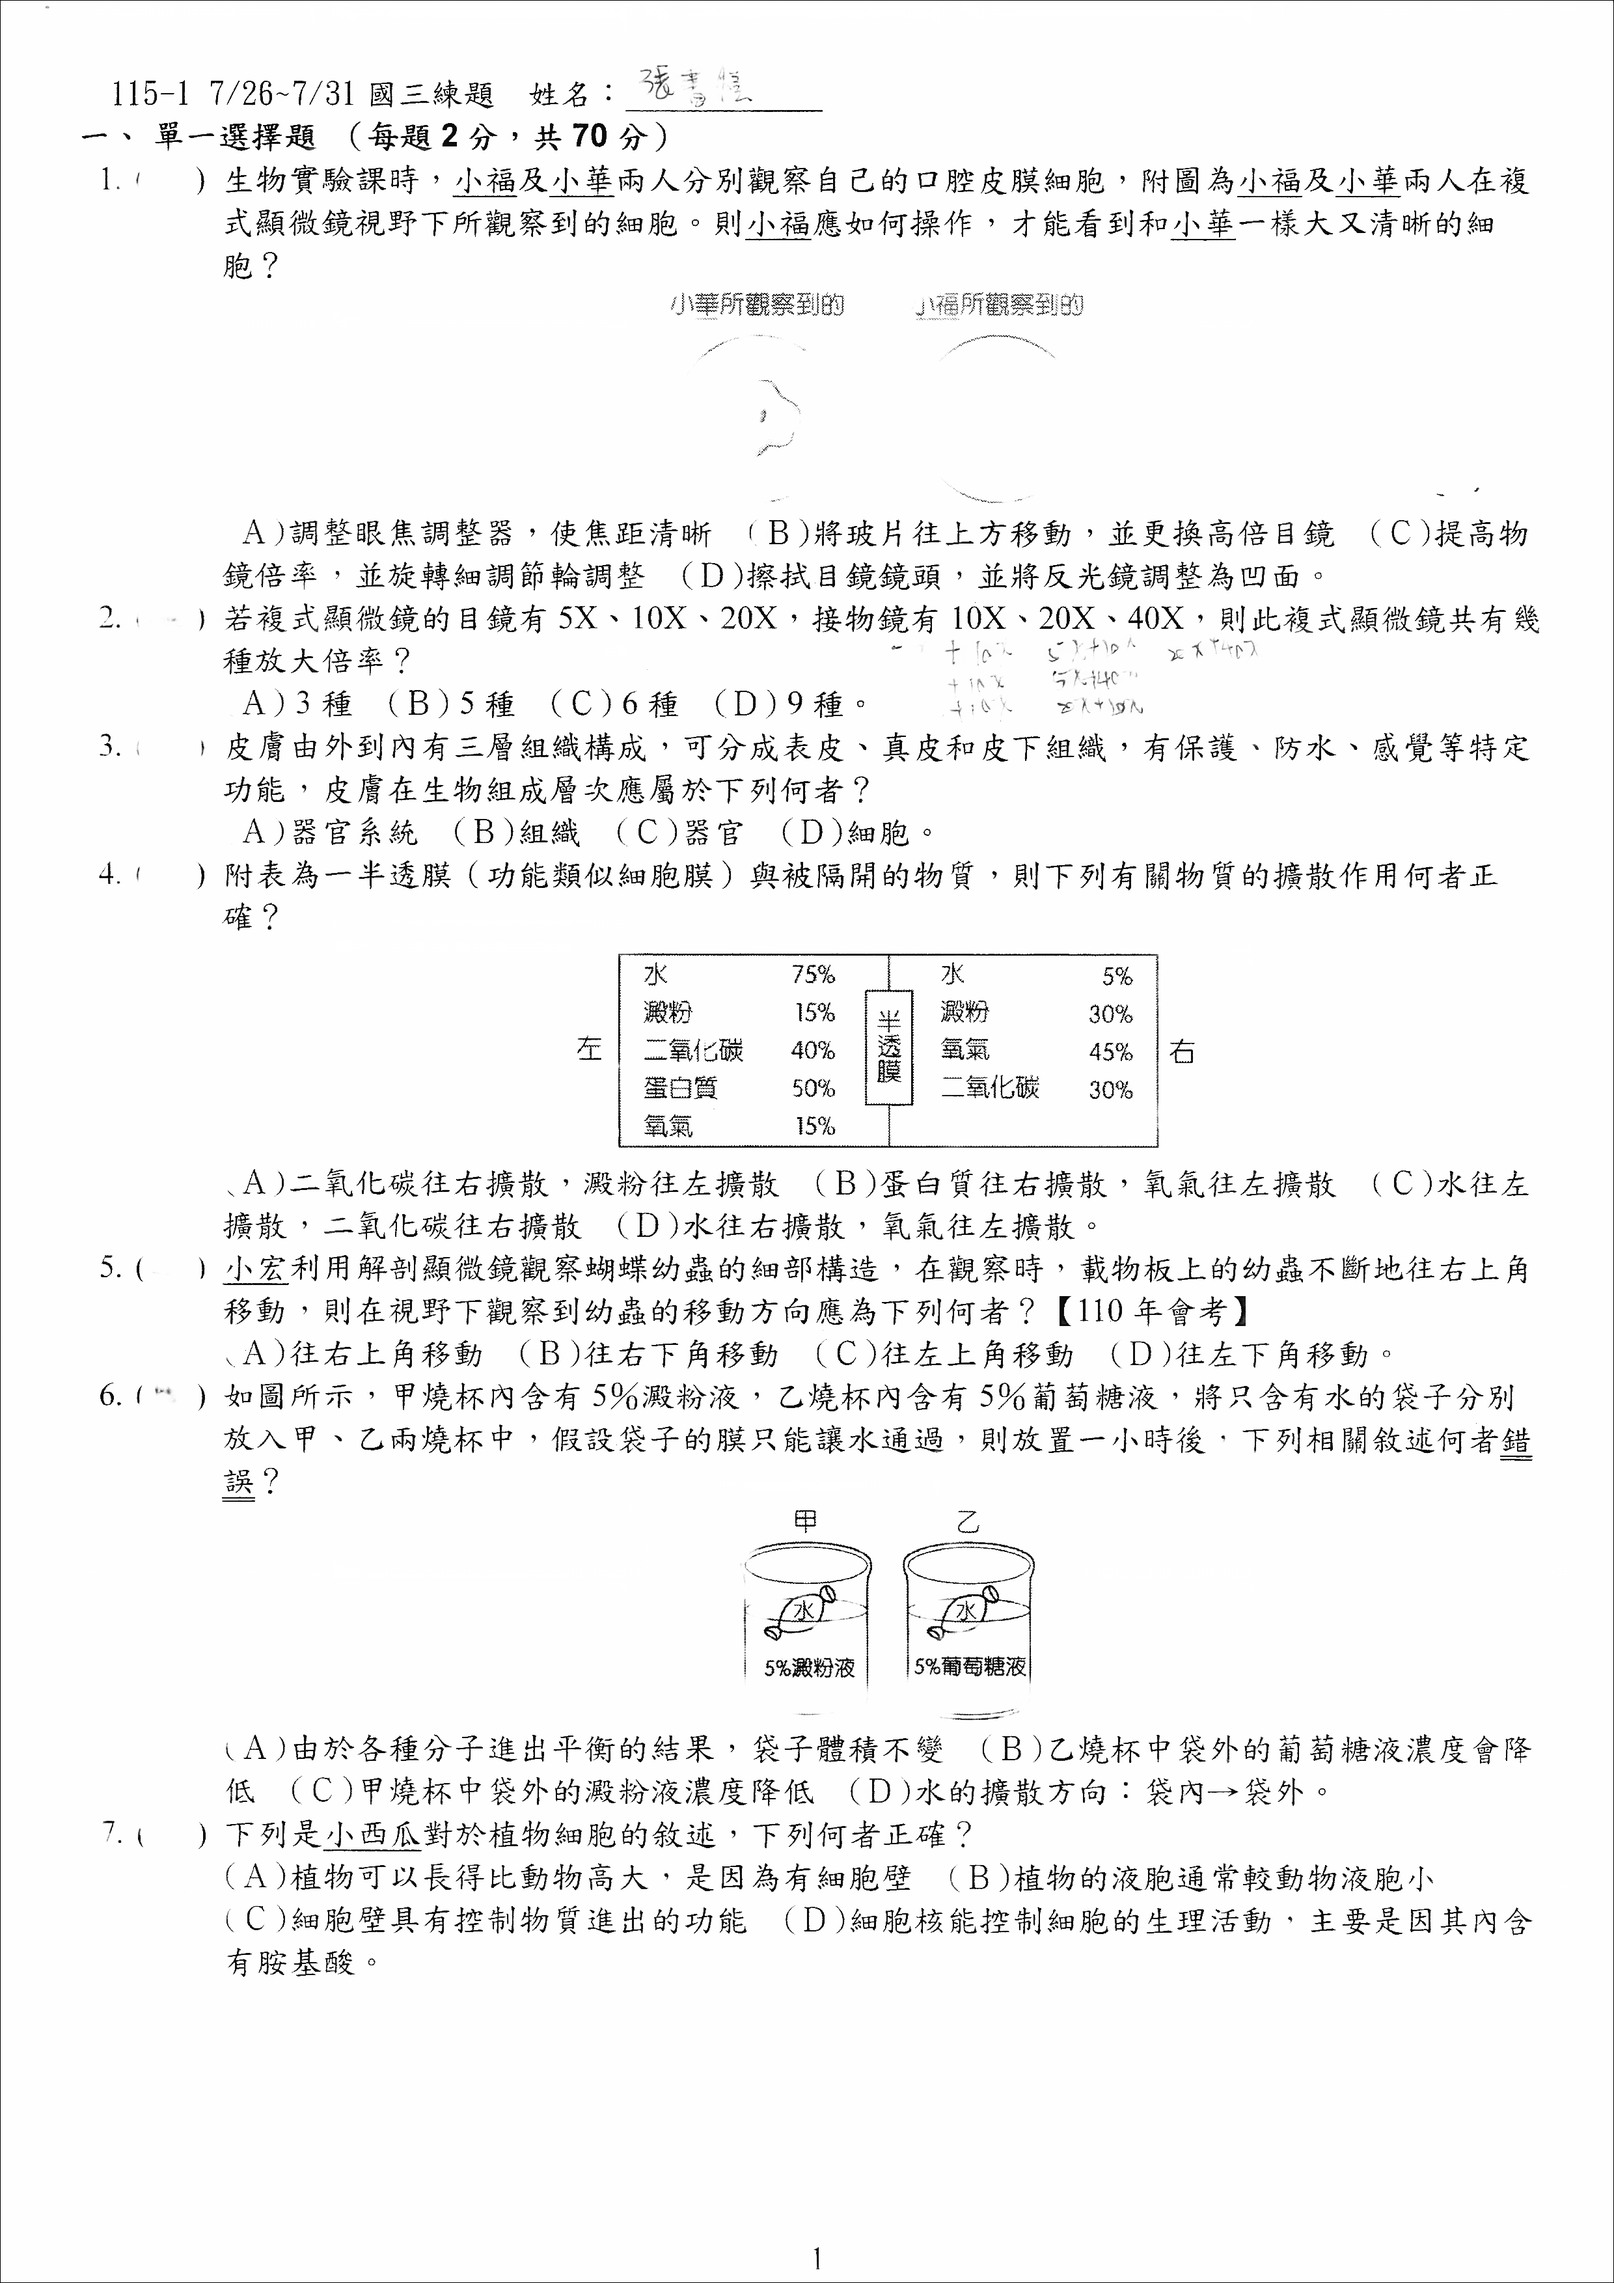
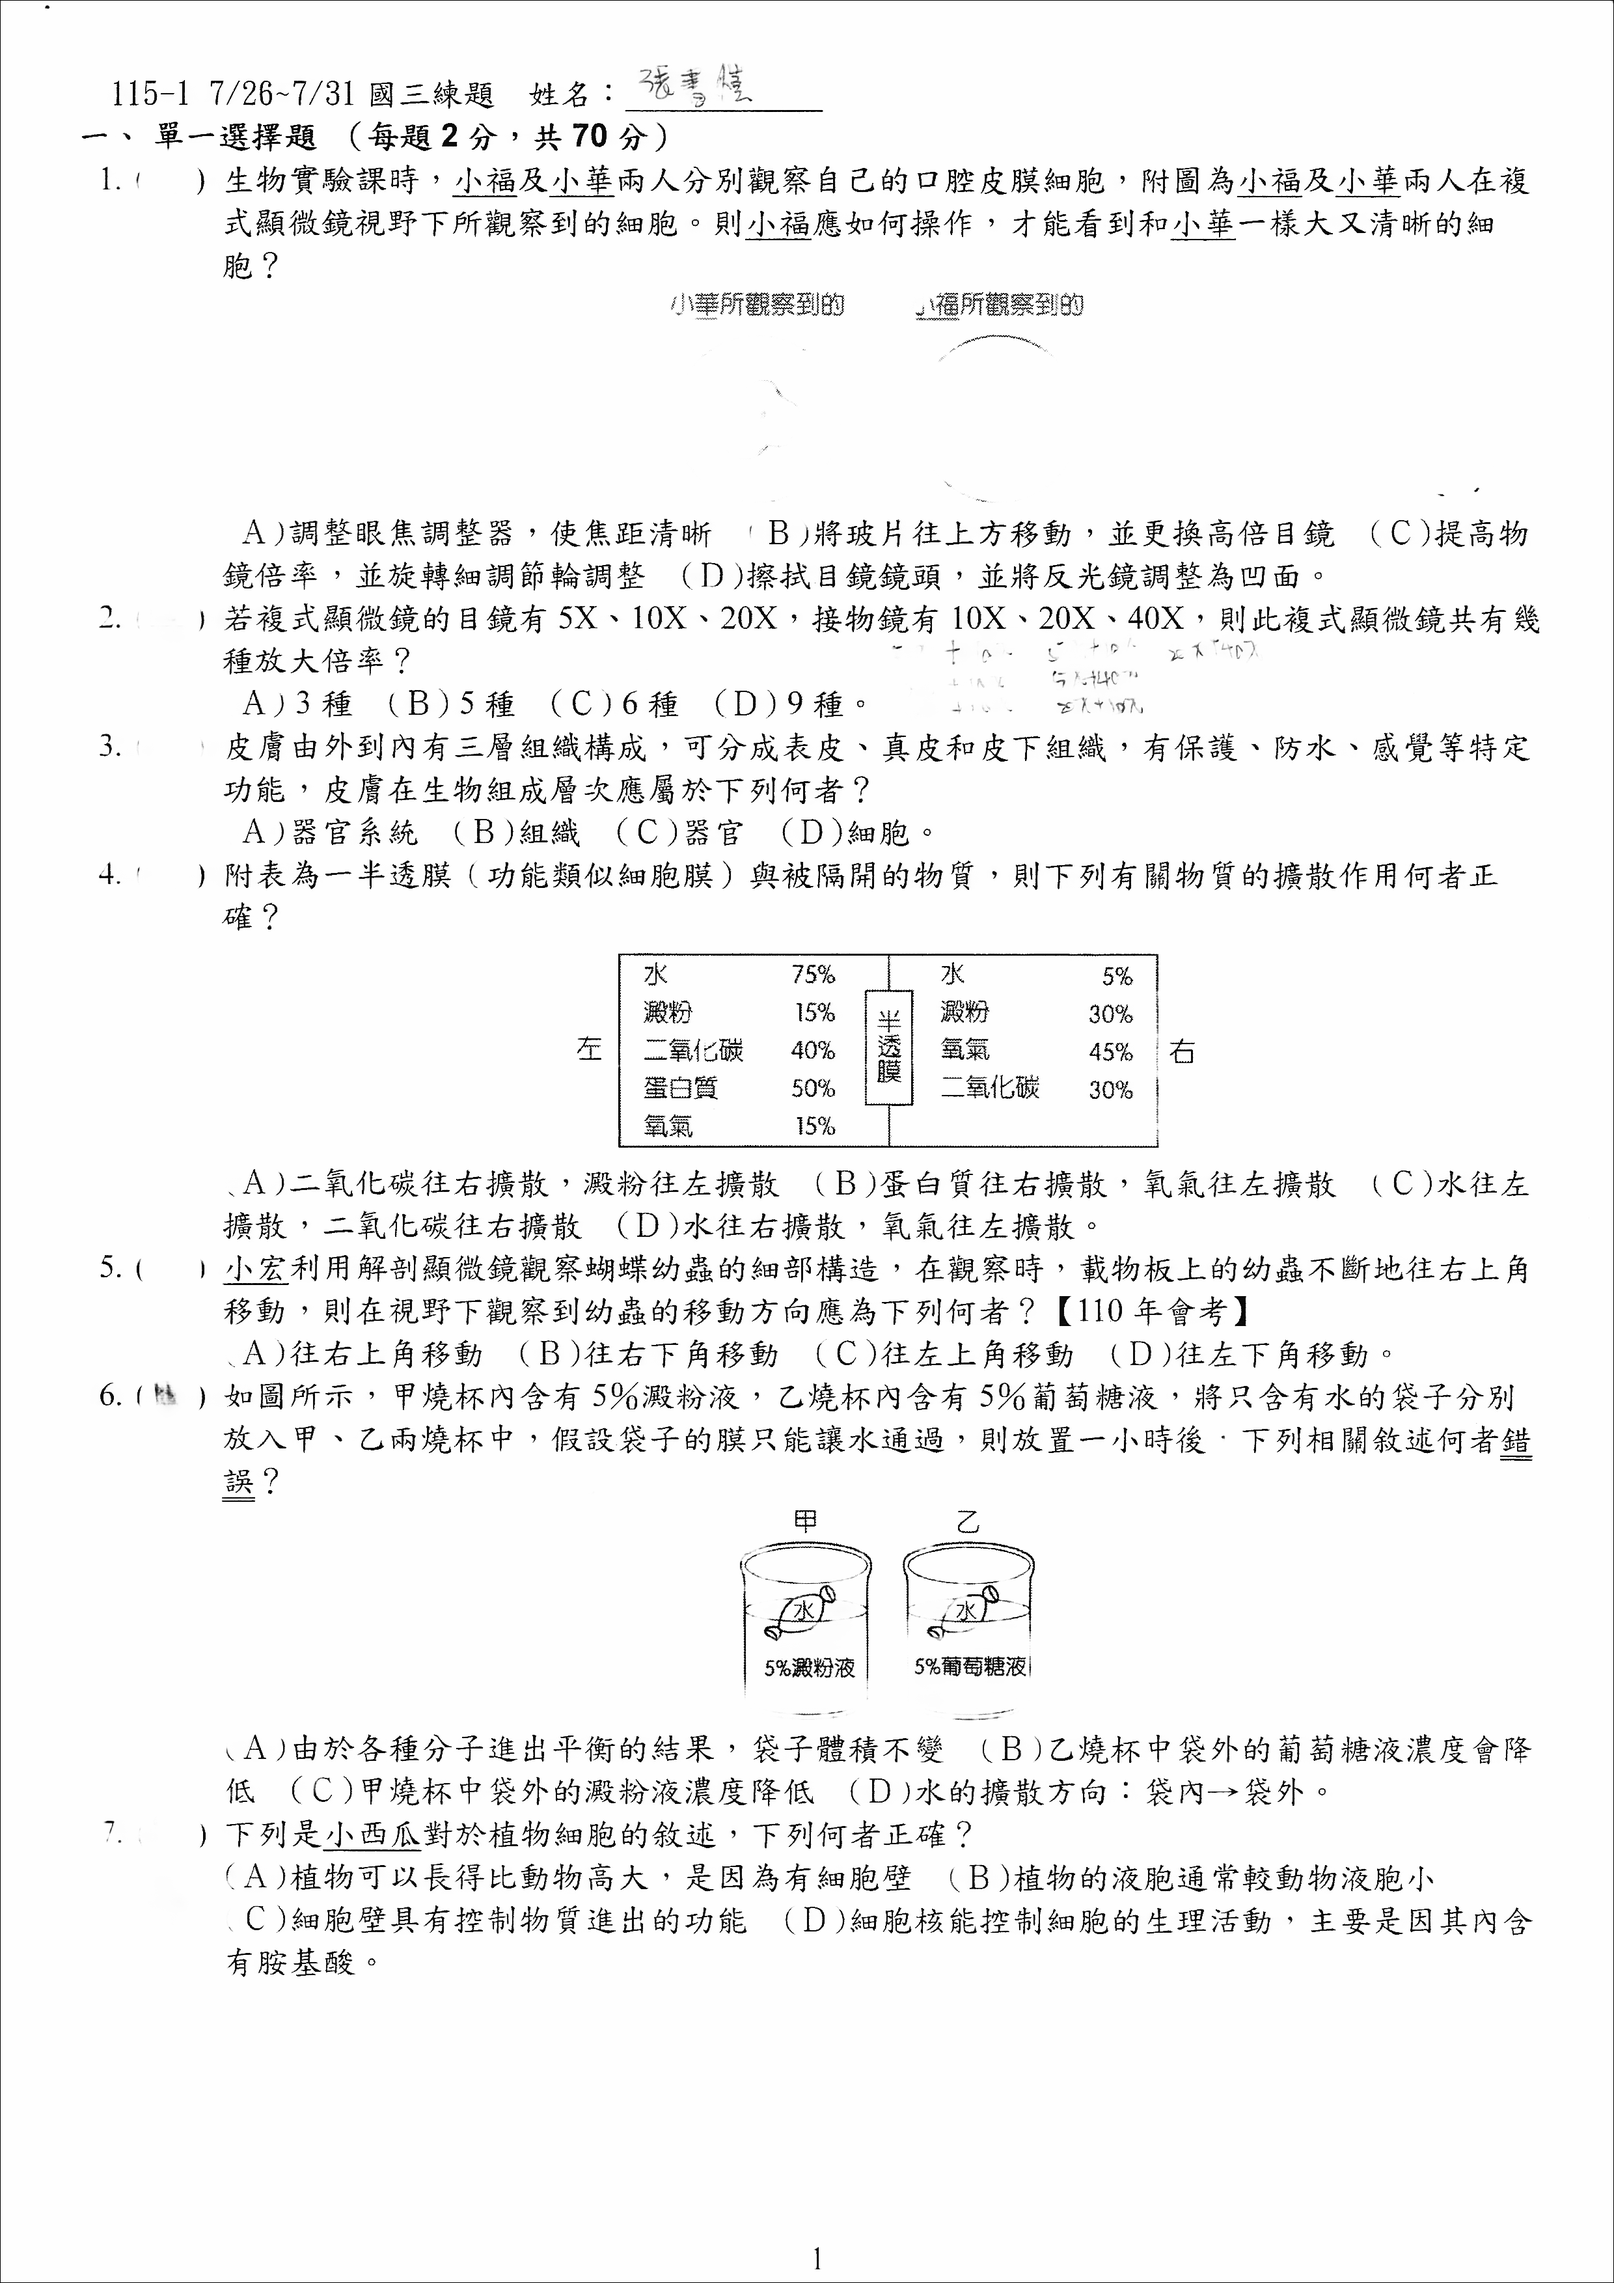
V 1.6

Changed region(s): [[0.5899, 0.1243, 0.621, 0.1554]]

diff --git a/api/index.py b/api/index.py
@@ -1,0 +1,63 @@
+from flask import Flask, request, jsonify, send_file
+import cv2
+import numpy as np
+import io
+import sys
+import os
+
+# 將父目錄加入 sys.path 以便匯入 image_processor
+sys.path.append(os.path.dirname(os.path.dirname(os.path.abspath(__file__))))
+from image_processor import process_image, enhance_text, whiten_background
+
+app = Flask(__name__)
+
+@app.route('/api/process', methods=['POST'])
+def process():
+    """處理圖片上傳與轉換的 API (Vercel Serverless Function)"""
+    if 'image' not in request.files:
+        return jsonify({'error': 'No image uploaded'}), 400
+        
+    file = request.files['image']
+    color_type = request.form.get('color_type', 'both')
+    fill_method = request.form.get('fill_method', 'white')
+    enhance_str = request.form.get('enhance', 'false').lower()
+    enhance = (enhance_str == 'true')
+    
+    # 簡單的參數驗證
+    if color_type not in ['red', 'blue', 'both']:
+        return jsonify({'error': 'Invalid color_type'}), 400
+    if fill_method not in ['white', 'inpaint']:
+        return jsonify({'error': 'Invalid fill_method'}), 400
+
+    # 讀取圖片到記憶體並轉為 numpy array 給 cv2 使用
+    in_memory_file = file.read()
+    nparr = np.frombuffer(in_memory_file, np.uint8)
+    img = cv2.imdecode(nparr, cv2.IMREAD_COLOR)
+    
+    if img is None:
+        return jsonify({'error': 'Invalid image file'}), 400
+
+    try:
+        # 1. 套用背景白化 (與 main.py 邏輯一致)
+        img = whiten_background(img)
+        
+        # 2. 執行影像處理去除筆跡 (與 main.py 一樣跑 5 次以獲得較佳效果)
+        for _ in range(5):
+            img = process_image(img, color_type=color_type, tolerance=0, fill_method=fill_method)
+            
+        # 3. 根據選項決定是否增強對比
+        if enhance:
+            img = enhance_text(img)
+            
+        # 4. 編碼回 PNG 格式
+        is_success, im_buf_arr = cv2.imencode(".png", img)
+        if not is_success:
+            return jsonify({'error': 'Failed to encode processed image'}), 500
+            
+        # 5. 回傳圖片
+        byte_io = io.BytesIO(im_buf_arr.tobytes())
+        byte_io.seek(0)
+        return send_file(byte_io, mimetype='image/png')
+        
+    except Exception as e:
+        return jsonify({'error': str(e)}), 500
